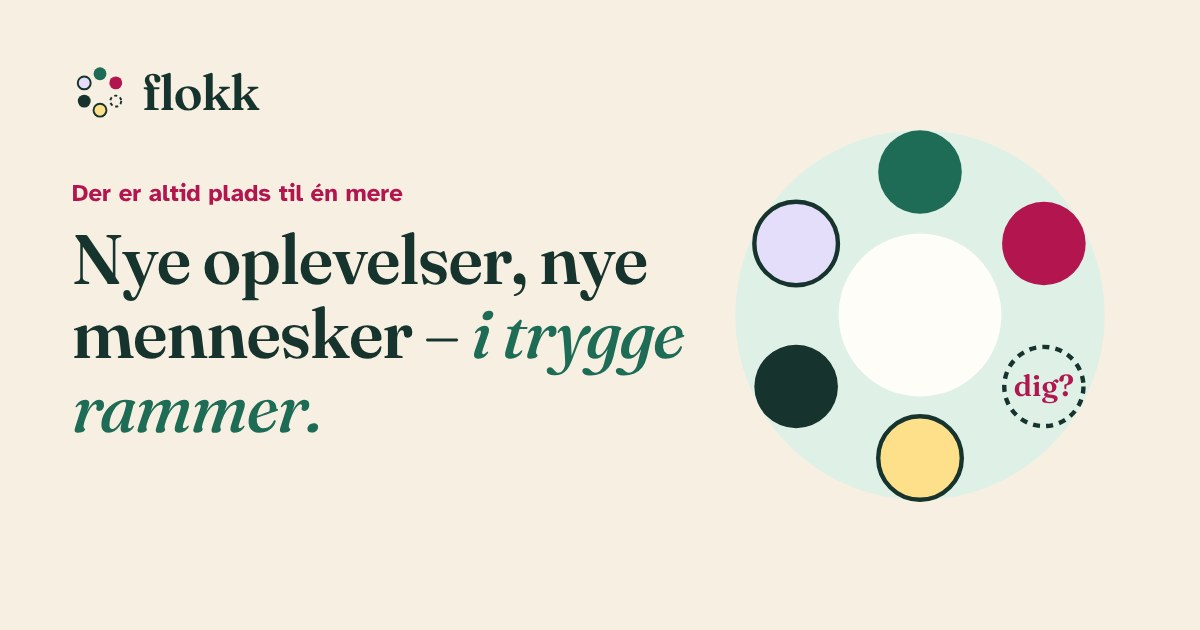
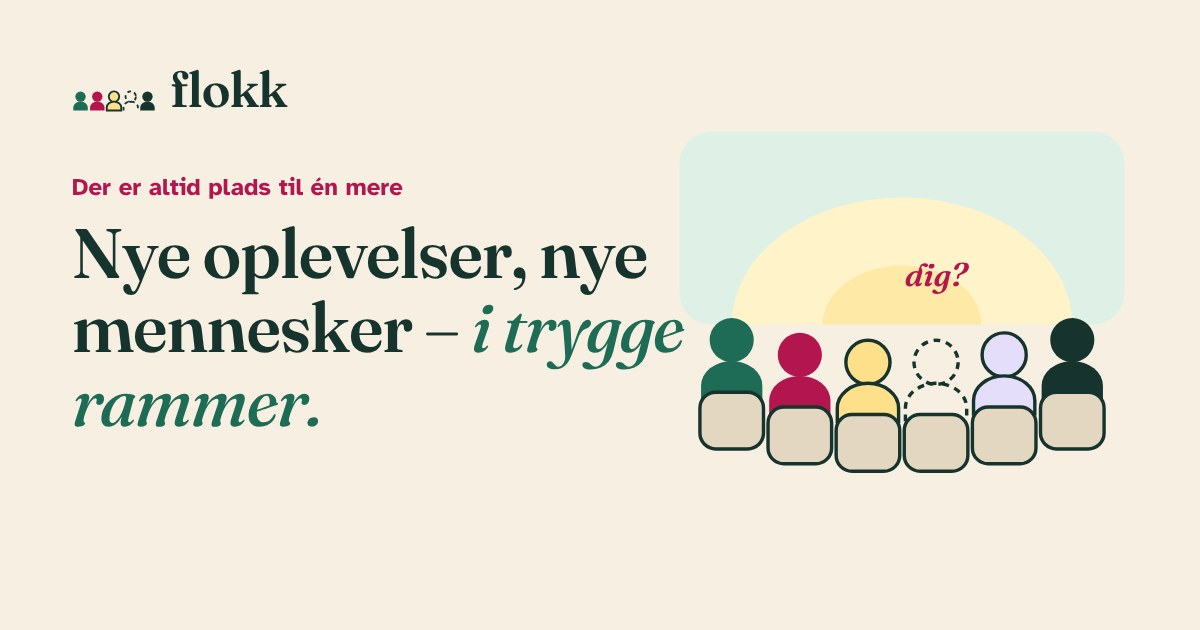
Flokk: a row, not a circle – the mark and the front page's picture show a flock on a row of seats with one free
Also: the collector's status reads its log in one pass over the last 30 days
(with an index) instead of one lookup per row, which grew with the square of
the log and used up D1's free daily reads; /api/health no longer reads the
per-source log.

Claude-Session: https://claude.ai/code/session_01R4Vg4UURLwM56wBpxxSQqy

diff --git a/apps/holistisk/src/forening/brand.ts b/apps/holistisk/src/forening/brand.ts
@@ -1,26 +1,37 @@
 import { raw } from "../web/html.js";
 
-/** Flokk's mark: the open circle – five people in a ring with one place free, because there is always room for one
- * more. The same drawing, large, is the front page's picture; public/assets/flokk-icon.svg is the tab's icon. */
+/** Flokk's mark: a row of people side by side – one place in it free, because there is always room for one more. The
+ * same idea, large, is the front page's picture: a small flock seen from behind, in a row in front of a stage, with an
+ * empty seat. public/assets/flokk-icon.svg is the tab's icon. */
 
-const RING = [[20, 7], [31.26, 13.5], [31.26, 26.5], [20, 33], [8.74, 26.5], [8.74, 13.5]] as const;
-const FILLS = ["#1e6b56", "#b3164f", null, "#ffe08a", "#17332d", "#e4defa"] as const;
+const INK = "#17332d";
+const light = (c: string) => c === "#ffe08a" || c === "#e4defa";
 
-function ring(scale: number, dot: number, stroke: number): string {
-  return RING.map(([x, y], i) => {
-    const cx = (x * scale).toFixed(2), cy = (y * scale).toFixed(2);
-    const fill = FILLS[i];
-    return fill
-      ? `<circle cx="${cx}" cy="${cy}" r="${dot}" fill="${fill}"${fill === "#ffe08a" || fill === "#e4defa" ? ` stroke="#17332d" stroke-width="${stroke}"` : ""}/>`
-      : `<circle cx="${cx}" cy="${cy}" r="${(dot - stroke / 2).toFixed(2)}" fill="none" stroke="#17332d" stroke-width="${stroke}" stroke-dasharray="${stroke * 1.6} ${stroke * 1.4}"/>`;
-  }).join("");
+/** A head and shoulders seen from behind, `w` wide, standing on y = base; null draws the free place, dashed. */
+function figure(x: number, base: number, w: number, fill: string | null, stroke: number): string {
+  const r = w * 0.36, h = w * 0.62, top = base - h;
+  const shoulders = `M${(x - w / 2).toFixed(2)} ${base}v${(-h * 0.35).toFixed(2)}a${(w / 2).toFixed(2)} ${(h * 0.65).toFixed(2)} 0 0 1 ${w} 0v${(h * 0.35).toFixed(2)}z`;
+  const head = `cx="${x}" cy="${(top - r * 0.95).toFixed(2)}" r="${r.toFixed(2)}"`;
+  if (!fill) return `<g fill="none" stroke="${INK}" stroke-width="${stroke}" stroke-dasharray="${(stroke * 2).toFixed(1)} ${(stroke * 1.7).toFixed(1)}"><circle ${head}/><path d="${shoulders.replace(/z$/, "")}"/></g>`;
+  const line = light(fill) ? ` stroke="${INK}" stroke-width="${stroke}"` : "";
+  return `<circle ${head} fill="${fill}"${line}/><path d="${shoulders}" fill="${fill}"${line}/>`;
 }
 
-export const FLOKK_MARK = raw(`<svg class="mark mark-flokk" viewBox="0 0 40 40" aria-hidden="true">${ring(1, 4.6, 1.4)}</svg>`);
+const ROW = ["#1e6b56", "#b3164f", "#ffe08a", null, "#17332d"] as const;
 
-export const OPEN_CIRCLE_ART = raw(`<svg class="f-circle-art" viewBox="0 0 400 400" role="img" aria-label="Fem mennesker i en rundkreds med én ledig plads">
-<circle cx="200" cy="200" r="168" fill="#dff1e7"/>
-<circle cx="200" cy="200" r="74" fill="#fffdf8"/>
-${ring(10, 38, 4)}
-<text x="312.6" y="274" text-anchor="middle" font-family="Fraunces, Georgia, serif" font-weight="600" font-size="27" fill="#b3164f">dig?</text>
+export const FLOKK_MARK = raw(`<svg class="mark mark-flokk" viewBox="0 0 64 34" aria-hidden="true">${ROW.map((c, i) => figure(6.5 + i * 12.75, 33, 11, c, 1.4)).join("")}</svg>`);
+
+const PEOPLE = ["#1e6b56", "#b3164f", "#ffe08a", null, "#e4defa", "#17332d"] as const;
+
+export const ROW_ART = raw(`<svg class="f-row-art" viewBox="0 0 440 340" role="img" aria-label="En lille flok set bagfra på en stolerække foran en scene – med én ledig plads">
+<defs><clipPath id="stage"><rect x="24" y="12" width="392" height="170" rx="28"/></clipPath></defs>
+<rect x="24" y="12" width="392" height="170" rx="28" fill="#dff1e7"/>
+<ellipse cx="220" cy="182" rx="150" ry="112" fill="#fff3c9" clip-path="url(#stage)"/>
+<ellipse cx="220" cy="182" rx="70" ry="52" fill="#ffe08a" opacity=".55" clip-path="url(#stage)"/>
+${[70, 130, 190, 250, 310, 370].map((x, i) => {
+  // The row curves towards the stage: its ends sit a little further forward (higher in the picture).
+  const seat = 262 - (x - 220) ** 2 / 1100;
+  return `${figure(x, seat + 6, 54, PEOPLE[i] ?? null, 3)}<rect x="${x - 28}" y="${seat.toFixed(1)}" width="56" height="50" rx="14" fill="#e3d7c2" stroke="${INK}" stroke-width="3"/>`;
+}).join("")}
+<text x="250" y="148" text-anchor="middle" font-family="Fraunces, Georgia, serif" font-style="italic" font-weight="600" font-size="28" fill="#b3164f">dig?</text>
 </svg>`);

diff --git a/apps/holistisk/public/assets/site.css b/apps/holistisk/public/assets/site.css
@@ -552,10 +552,10 @@ button:active, .button:active { transform: translateY(3px); box-shadow: 0 0 0 va
 [data-edition="forening"] h1, [data-edition="forening"] h2, [data-edition="forening"] h3 { font-weight: 600; letter-spacing: -.015em; font-variation-settings: "SOFT" 100, "WONK" 0; }
 [data-edition="forening"] h1 em, [data-edition="forening"] h2 em { font-style: italic; color: var(--green-2); font-weight: 500; }
 .wordmark-flokk { font: 600 1.9rem/1 var(--display); letter-spacing: -.02em; gap: 10px; }
-.wordmark-flokk .mark-flokk { width: 40px; height: 40px; }
+.wordmark-flokk .mark-flokk { width: 60px; height: 32px; }
 .site-footer .wordmark-flokk { color: #fff; }
-.site-footer .wordmark-flokk .mark-flokk circle[fill="#17332d"] { fill: #f6efe2; }
-.site-footer .wordmark-flokk .mark-flokk circle[stroke-dasharray] { stroke: #f6efe2; }
+.site-footer .wordmark-flokk .mark-flokk [fill="#17332d"] { fill: #f6efe2; }
+.site-footer .wordmark-flokk .mark-flokk g { stroke: #f6efe2; }
 [data-edition="forening"] .masthead { border-bottom: 1px solid var(--rule); }
 [data-edition="forening"] .my-flocks { background: var(--green-2); color: #fff; box-shadow: none; border-radius: 999px; }
 [data-edition="forening"] .my-flocks:hover, [data-edition="forening"] .my-flocks[aria-current="page"] { background: var(--ink); color: #fff; }
@@ -585,9 +585,9 @@ button:active, .button:active { transform: translateY(3px); box-shadow: 0 0 0 va
 .f-hero h1 em { display: inline-block; }
 .f-hero .standfirst { font-size: 1.14rem; line-height: 1.7; max-width: 34em; color: var(--ink-2); }
 .f-actions { display: flex; flex-wrap: wrap; gap: 12px; align-items: center; margin-top: 30px; }
-.f-circle { max-width: 420px; width: 100%; margin: 0 auto; }
-.f-circle-art { display: block; width: 100%; height: auto; }
-@media (max-width: 939px) { .f-circle { max-width: 300px; order: -1; } }
+.f-row { max-width: 480px; width: 100%; margin: 0 auto; }
+.f-row-art { display: block; width: 100%; height: auto; }
+@media (max-width: 939px) { .f-row { max-width: 340px; order: -1; } }
 .f-evening h2 { margin-bottom: 20px; }
 .f-timeline { list-style: none; margin: 0; padding: 0; display: grid; gap: 18px; counter-reset: step; }
 @media (min-width: 820px) { .f-timeline { grid-template-columns: repeat(4, 1fr); gap: 0; } }
@@ -680,3 +680,4 @@ button:active, .button:active { transform: translateY(3px); box-shadow: 0 0 0 va
 .admin-list li { background: var(--card); border: 1px solid var(--rule); border-radius: 14px; padding: 12px 16px; margin-bottom: 10px; }
 .admin-list p { margin: 0 0 4px; }
 .field input[type="number"] { width: 100%; min-height: 48px; border: 2px solid var(--rule); border-radius: var(--radius-s); padding: 8px 12px; font: inherit; box-sizing: border-box; }
+@media (max-width: 700px) { .wordmark-flokk { font-size: 1.55rem; } .wordmark-flokk .mark-flokk { width: 48px; height: 26px; } }

diff --git a/apps/holistisk/src/ingest/run.ts b/apps/holistisk/src/ingest/run.ts
@@ -149,15 +149,17 @@ export type IngestStatus = {
 };
 
 /** For /api/status and the health check: healthy when a run succeeded in the last 36 hours. */
-export async function ingestStatus(db: D1Database, now: number): Promise<IngestStatus> {
+export async function ingestStatus(db: D1Database, now: number, withSources = true): Promise<IngestStatus> {
   const last = await db.prepare("SELECT id, trigger, status, started_at, finished_at FROM ingest_runs ORDER BY started_at DESC LIMIT 1")
     .first<{ id: string; trigger: string; status: string; started_at: number; finished_at: number | null }>();
   const ok = await db.prepare("SELECT MAX(started_at) AS at FROM ingest_runs WHERE status IN ('ok', 'partial')").first<{ at: number | null }>();
-  const sources = (await db.prepare(
-    `SELECT source_id, status, started_at, attempts, fetched, created, updated, error FROM ingest_source_runs s
-     WHERE rowid = (SELECT rowid FROM ingest_source_runs t WHERE t.source_id = s.source_id ORDER BY COALESCE(t.error, '') = 'deferred', t.started_at DESC LIMIT 1)
-     ORDER BY source_id`
-  ).all<{ source_id: string; status: string; started_at: number; attempts: number; fetched: number; created: number; updated: number; error: string | null }>()).results;
+  // One pass over the last 30 days' rows (D1 bills every row read; a lookup per row grew with the square of the log).
+  const sources = withSources ? (await db.prepare(
+    `SELECT source_id, status, started_at, attempts, fetched, created, updated, error FROM (
+       SELECT s.*, ROW_NUMBER() OVER (PARTITION BY source_id ORDER BY COALESCE(error, '') = 'deferred', started_at DESC) AS n
+       FROM ingest_source_runs s WHERE started_at >= ?)
+     WHERE n = 1 ORDER BY source_id`
+  ).bind(now - 30 * 86_400_000).all<{ source_id: string; status: string; started_at: number; attempts: number; fetched: number; created: number; updated: number; error: string | null }>()).results : [];
   const counts = await db.prepare("SELECT COUNT(*) AS total, SUM(CASE WHEN status IN ('scheduled', 'cancelled') AND COALESCE(ends_at, starts_at + 10800000) >= ? THEN 1 ELSE 0 END) AS upcoming FROM events")
     .bind(now).first<{ total: number; upcoming: number | null }>();
   return {

diff --git a/apps/holistisk/src/forening/pages.ts b/apps/holistisk/src/forening/pages.ts
@@ -3,7 +3,7 @@ import { html, raw, type SafeHtml } from "../web/html.js";
 import { crumbsNav, page, type Crumb, type PageContext } from "../web/layout.js";
 import type { View } from "../web/pages.js";
 import type { InquiryErrors, InquiryForm } from "../flokken/partners.js";
-import { OPEN_CIRCLE_ART } from "./brand.js";
+import { ROW_ART } from "./brand.js";
 import { AGE_GROUPS, AGE_LABELS, INTERESTS, type FormErrors, type InterestForm } from "./forms.js";
 import type { PickRow } from "./store.js";
 
@@ -58,7 +58,7 @@ export function homePage(ctx: PageContext, picks: PickRow[]): View {
       <p class="standfirst">Flokk er for dig, der ikke synes, det er det nemmeste i verden at møde nye mennesker – men gerne vil. Vi tager dig med til håndplukkede kulturevents i foreningslivet i en lille flok med en vært. Vi står for planlægningen, billetten og en lille en til ganen bagefter. Du skal bare møde op.</p>
       <p class="f-actions"><a class="button" href="/skriv-dig-op">Skriv dig på interesselisten</a> <a class="button-secondary" href="/#saadan">Sådan virker det</a></p>
     </div>
-    <div class="f-circle">${OPEN_CIRCLE_ART}</div>
+    <div class="f-row">${ROW_ART}</div>
   </div>
 </section>
 <div class="wrap">

diff --git a/apps/holistisk/src/web/layout.ts b/apps/holistisk/src/web/layout.ts
@@ -107,7 +107,7 @@ ${forening ? html`<link rel="icon" href="/assets/flokk-icon.svg" type="image/svg
 <link rel="preload" href="/assets/fonts/atkinson-400-latin.woff2" as="font" type="font/woff2" crossorigin>` : html`<link rel="icon" href="/favicon.svg" type="image/svg+xml">
 <link rel="preload" href="/assets/fonts/fredoka-latin.woff2" as="font" type="font/woff2" crossorigin>
 <link rel="preload" href="/assets/fonts/nunito-latin.woff2" as="font" type="font/woff2" crossorigin>`}
-<link rel="stylesheet" href="/assets/site.css?v=13">
+<link rel="stylesheet" href="/assets/site.css?v=14">
 <script src="/assets/site.js?v=7" defer></script>
 ${(meta.styles ?? []).map(href => html`<link rel="stylesheet" href="${href}">`)}
 ${(meta.scripts ?? []).map(src => html`<script src="${src}" defer></script>`)}

diff --git a/apps/holistisk/src/index.ts b/apps/holistisk/src/index.ts
@@ -117,7 +117,7 @@ async function route(request: Request, env: Env, now: number, mount: Mount | nul
   if (path === "/api/health") {
     const db = env.DB;
     if (!db) return json(env, { status: "error", error: "database_unbound", environment: pc.environment }, 503);
-    const status = await ingestStatus(db, now);
+    const status = await ingestStatus(db, now, false);
     return json(env, { status: "ok", environment: pc.environment, regions, ingest: { healthy: status.healthy, lastRun: status.lastRun, lastSuccessAt: status.lastSuccessAt }, events: status.events });
   }
   if (path === "/api/status") {

diff --git a/docs/holistisk/README.md b/docs/holistisk/README.md
@@ -13,7 +13,7 @@ The collector serves both: the portal shows its events, Flokken's volunteers pic
 - **Approved events** (`picks`, migration 0004): copied from a collected event or typed in, then edited; only `approved` ones are shown. Nothing is shown before a volunteer approves it.
 - **Interest list** (`interests`): one line per e-mail and event; signing up again updates it. Consent is required; a hidden field catches robots. No mails are sent yet.
 - **Admin** (`/log-ind`, `/admin`): suggestions from the collector (search, "Godkend"), a form for an event typed in, editing and withdrawing, the interest list (and CSV, safe against spreadsheet formulas) and inquiries from associations. Only members with `is_admin = 1`; create one with `node apps/holistisk/scripts/new-admin.mjs "Fornavn"` and run the printed SQL with `wrangler d1 execute`.
-- **Look**: its own, on the portal's colours. The mark is the open circle – five people in a ring with one place free, "there is always room for one more" (`src/forening/brand.ts`; large on the front page, `public/assets/flokk-icon.svg` in the tab, `public/assets/og-flokk.jpg` when shared). Fraunces for headings and Atkinson Hyperlegible, drawn to be easy to read, for text (both SIL OFL, `public/assets/fonts`). Thin lines, soft shadows, more air. `data-edition="forening"` on `<html>` switches it on.
+- **Look**: its own, on the portal's colours. The mark is a row of people side by side with one place free – "there is always room for one more"; large on the front page it is a small flock seen from behind on a row of seats in front of a stage, with one empty seat (`src/forening/brand.ts`; `public/assets/flokk-icon.svg` in the tab, `public/assets/og-flokk.jpg` when shared). Fraunces for headings and Atkinson Hyperlegible, drawn to be easy to read, for text (both SIL OFL, `public/assets/fonts`). Thin lines, soft shadows, more air. `data-edition="forening"` on `<html>` switches it on.
 
 ## Run it
 

diff --git a/docs/decisions/0008-flokken-forening.md b/docs/decisions/0008-flokken-forening.md
@@ -30,7 +30,8 @@ together small flocks with a host, and takes care of planning, the ticket and "a
 - A calmer version of the design: the same colours and mark, thin lines, soft shadows, no tilted tickets.
 
 - Named Flokk (www.jacobhauge.com/flokk) with its own mark and type, so it does not look like Socialklubben; the
-  colours are shared. The mark, the open circle, says the promise: there is always room for one more. Headline: "Nye
+  colours are shared. The mark, a row of people with one place free, says the promise: there is always room for one
+  more – in a row in front of a stage, not a circle (Flokk is not a support group). Headline: "Nye
   oplevelser, nye mennesker – i trygge rammer."
 
 ## Open
